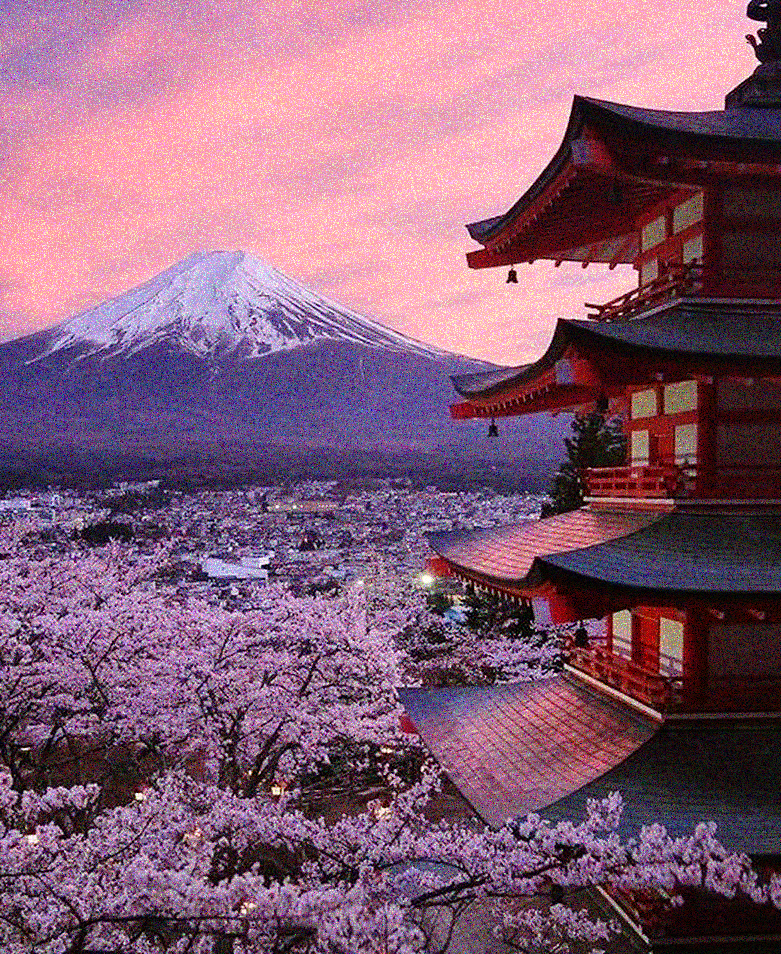
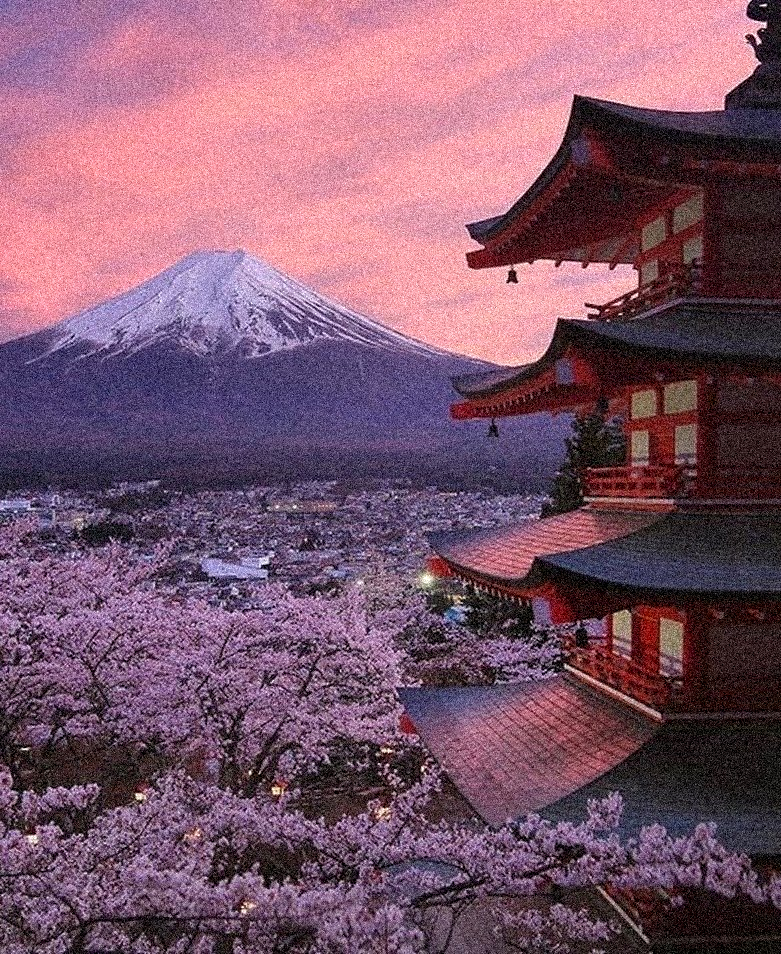
feat: added grayscale noise

diff --git a/src/main.rs b/src/main.rs
@@ -3,31 +3,46 @@ use rand;
 use rand_distr::{Distribution, Normal};
 use std::env;
 
-fn create_gaussian_noise(mean: f64, sd: f64, width: u32, height: u32) -> Vec<u8> {
+fn create_gaussian_noise(mean: f64, sd: f64, width: u32, height: u32, grayscale: bool) -> Vec<i16> {
     let normal = Normal::new(mean, sd).unwrap();
     let mut rng = rand::thread_rng();
     let mut gaussian = normal.sample_iter(&mut rng);
-    let mut noise = Vec::<u8>::new();
+    let mut noise = Vec::<i16>::new();
     while noise.len() < (width * height * 4) as usize {
-        for i in (0..3) {
-            let val = (gaussian.next().unwrap() * 255.0) as u8;
-            noise.push(val);
+        match grayscale {
+            true => {
+                let val = (gaussian.next().unwrap() * 255.0) as i16;
+                noise.extend([val, val, val, 255])
+            }
+            _ => {
+                for _ in 0..3 {
+                    let val = (gaussian.next().unwrap() * 255.0) as i16;
+                    noise.push(val);
+                }
+                noise.push(255);
+            }
         }
-        noise.push(255);
     }
     return noise;
 }
 
-fn add_two_images(image1: &[u8], image2: &[u8]) -> Vec<u8> {
-    assert!(image1.len() == image2.len());
+fn add_noise(image: &[u8], noise: &[i16]) -> Vec<u8> {
+    assert!(image.len() == noise.len());
     let mut sum_image = Vec::<u8>::new();
-    for i in 0..image1.len() {
-        if image1[i] > std::u8::MAX - image2[i] {
-            sum_image.push(255);
-        } else if image1[i] < image2[i] {
+    for i in 0..image.len() {
+        if noise[i] > 0 {
+            // We are adding
+            if image[i] > 255 - noise[i] as u8 {
+                sum_image.push(255);
+            } else {
+                sum_image.push(image[i] + noise[i] as u8);
+            }
+        } else if image[i] < -noise[i] as u8 {
+            // We underflow
             sum_image.push(0);
         } else {
-            sum_image.push(image1[i] + image2[i]);
+            // We are subtracting
+            sum_image.push(image[i] - -noise[i] as u8);
         }
     }
     return sum_image;
@@ -40,16 +55,9 @@ fn main() {
     let img = ImageReader::open(file_path).expect("valid image file to exist");
     let img = img.decode().expect("decode image");
     println!("{:?} {} {} ", img.color(), img.width(), img.height());
-    let noise = create_gaussian_noise(0.0, 0.2, img.width(), img.height());
-    let _ = image::save_buffer(
-        "./noise.png",
-        &noise[0..],
-        img.width(),
-        img.height(),
-        image::ColorType::Rgba8,
-    );
+    let noise = create_gaussian_noise(0.0, 0.08, img.width(), img.height(), true);
     // Apply noise
-    let sum_image = add_two_images(img.as_bytes(), &noise);
+    let sum_image = add_noise(img.as_bytes(), &noise);
     println!("{:?}", &sum_image[0..5]);
     let _ = image::save_buffer(
         "./noisy_image.png",
@@ -59,5 +67,5 @@ fn main() {
         image::ColorType::Rgba8,
     );
     println!("{} {:?}", img.as_bytes().len(), &img.as_bytes()[0..5]);
-    println!("{} {:?}", noise.len(), &noise[0..5]);
+    // println!("{} {:?}", noise.len(), &noise);
 }
